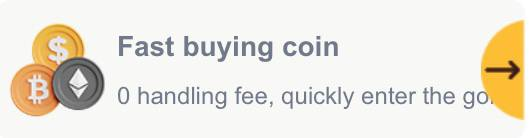
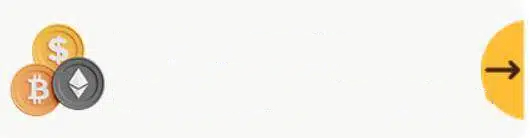
1

diff --git a/src/pages/Home.jsx b/src/pages/Home.jsx
@@ -411,8 +411,11 @@ useEffect(() => {
 <div className="flex gap-2 mb-6 px-1">
   <div className="w-1/3 relative">
     <img src="/images/online.jpg" className="w-full h-[70px] rounded-lg object-fill" />
-    <div className="absolute bottom-1 left-0 right-0 text-center text-white text-xs font-bold bg-black bg-opacity-50 py-1 rounded">
-      {t("online")}
+    {/* 在图片上叠加可翻译的文字 */}
+    <div className="absolute inset-0 flex items-center justify-center">
+      <span className="text-gray-600 text-sm font-bold bg-white bg-opacity-80 px-2 py-1 rounded">
+        {t("Online Service")}
+      </span>
     </div>
   </div>
 
@@ -422,8 +425,10 @@ useEffect(() => {
       className="w-full h-[70px] rounded-lg object-fill cursor-pointer"
       onClick={() => navigate('/deposit1')}
     />
-    <div className="absolute bottom-1 left-0 right-0 text-center text-white text-xs font-bold bg-black bg-opacity-50 py-1 rounded">
-      {t("fastbuy")}
+    <div className="absolute inset-0 flex items-center justify-center">
+      <span className="text-gray-600 text-sm font-bold bg-white bg-opacity-80 px-2 py-1 rounded">
+        {t("Fast buying coin")}
+      </span>
     </div>
   </div>
 </div>
